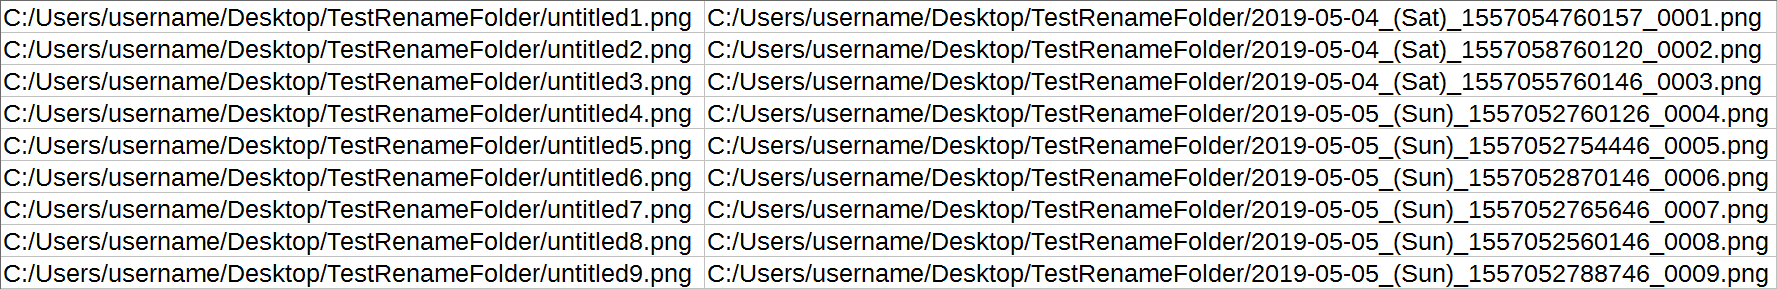
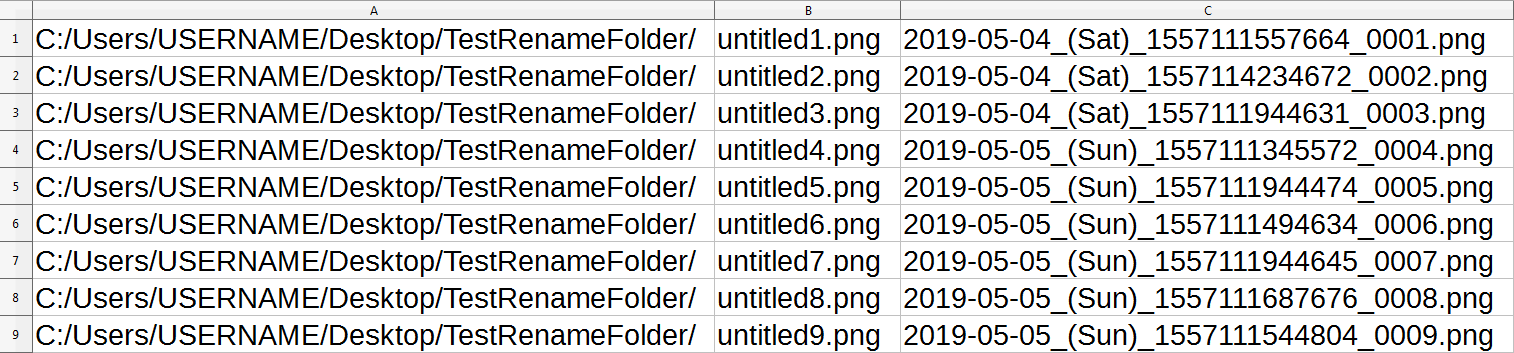
Changed structure of the renameList. Added renameList log. Updated README.

diff --git a/main.js b/main.js
@@ -5,6 +5,7 @@ const utilities = require('./util/utilities');
 const WEEK_NAMES = ['Sun', 'Mon', 'Tue', 'Wed', 'Thu', 'Fri', 'Sat'];
 const CSV_DELIMITER = '\t';
 const CSV_PATH = './renameList.csv';
+const LOG_PATH = './renameList.log';
 
 // Read input arguments from user
 let argument = process.argv[2];
@@ -17,24 +18,36 @@ if (argument && argument.toLowerCase() === 'continue')
   {
     let csvInput = utilities.readTextFile(CSV_PATH).split('\n');
     let successfulRenameCount = 0;
+    let outputLogEntries = [];
     // Looping by CSV input lines
     for (let i = 0; i < csvInput.length; i++)
     {
       if (csvInput[i] === '')
       {
-        console.debug('Index: ' + i + ', CSV input line is empty, skipping: ' + csvInput[i]);
+        //console.debug('Index: ' + i + ', CSV input line is empty, skipping: ' + csvInput[i]);
         continue;
       }
       
       // Need to remove '\r' char which gets added when CSV file is modified by spreadsheet
       let csvInputSplit = csvInput[i].replace(/\r/g, '').split(CSV_DELIMITER);
-      let oldPath = csvInputSplit[0];
-      let newPath = csvInputSplit[1];
-      utilities.renamePath(oldPath, newPath);
-      console.log('Index: ' + i + ', oldPath: ' + oldPath + ', newPath: ' + newPath);
+      let oldPathDirectoryPath = csvInputSplit[0];
+      let oldPathFileName = csvInputSplit[1];
+      let newPathFileName = csvInputSplit[2];
+      utilities.renamePath(oldPathDirectoryPath + oldPathFileName, oldPathDirectoryPath + newPathFileName);
+      
+      let logEntry =
+      {
+        "entry": (i + 1),
+        "directoryPath": oldPathDirectoryPath,
+        "oldFileName": oldPathFileName,
+        "newFileName": newPathFileName
+      };
+      console.log(logEntry);
+      outputLogEntries.push(logEntry);
       ++successfulRenameCount;
     }
     console.log('Renaming done. ' + successfulRenameCount + ' files renamed.');
+    utilities.writeToFile(LOG_PATH, JSON.stringify(outputLogEntries, null, 2))
   }
   else
   {
@@ -56,7 +69,7 @@ else if (utilities.isPathExist(argument))
     // Note: File extensions with multiple periods are not supported. For example: ".tar.gz".
     let fileExtension = filePaths[i].fileName.split('.').pop();
     
-    let oldPath = filePaths[i].directoryPath + filePaths[i].fileName;
+    let oldPath = filePaths[i].directoryPath + CSV_DELIMITER + filePaths[i].fileName;
     // Sample format of new file name: C:/Users/t/Desktop/TestRenameFolder/2019-05-05_(Sun)_1557052760157_0001.txt
     let newFileName = '';
     newFileName += creationDate.getFullYear();
@@ -70,9 +83,9 @@ else if (utilities.isPathExist(argument))
     newFileName += (i < 100) ? '0' : '';
     newFileName += (i < 10) ? '0' : '';
     newFileName += (i + 1);
-    let newPath = filePaths[i].directoryPath + newFileName + '.' + fileExtension;
+    newFileName += '.' + fileExtension;
     
-    csvOutput += oldPath + CSV_DELIMITER + newPath + '\n';
+    csvOutput += oldPath + CSV_DELIMITER + newFileName + '\n';
   }
   utilities.writeToFile(CSV_PATH, csvOutput);
 }

diff --git a/README.md b/README.md
@@ -24,15 +24,20 @@ Bulk file renaming program.
 Recommended equivalent shortcut: `node main.js "%USERPROFILE%/Desktop/TestRenameFolder/"`.  
 This will generate a `renameList.csv` file in the main project `Bulk-File-Renamer` folder.
 
-6. Open `renameList.csv` located in the main project `Bulk-File-Renamer` folder. The left column is the *before* file path to rename. The right column is the *after* new file path that you want to rename to.  
-Modify the right column and save changes.  
+6. Open `renameList.csv` located in the main project `Bulk-File-Renamer` folder.  
+a. The **first** column is the directory path of the file.  
+b. The **second** column is the *before* file name to rename.  
+c. The **third** column is the *after* new file name that you want to rename to.<br>  
+Modify the third/right column and save changes.  
 Recommended to use a spreadsheet application and open with separated by `tab` options.
 
     <img src="images/renameList.png" width="500">
 
 7. When `renameList.csv` is ready, run `node main.js continue` to start renaming the files listed in the `renameList.csv`.
 
-8. The renaming program should loop through the `renameList.csv` file and rename the left column file paths to the right column file paths.
+8. The renaming program should rename the files based on the `renameList.csv` file.
+
+9. The output log `renameList.log` is written to the main project `Bulk-File-Renamer` folder.
 
 ## Test
 (None)
